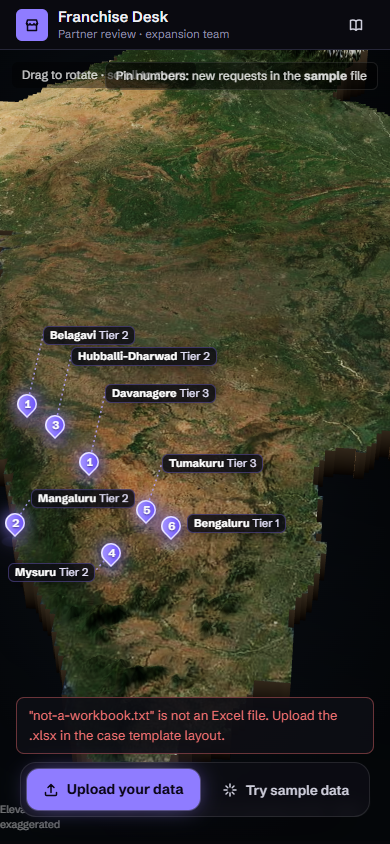
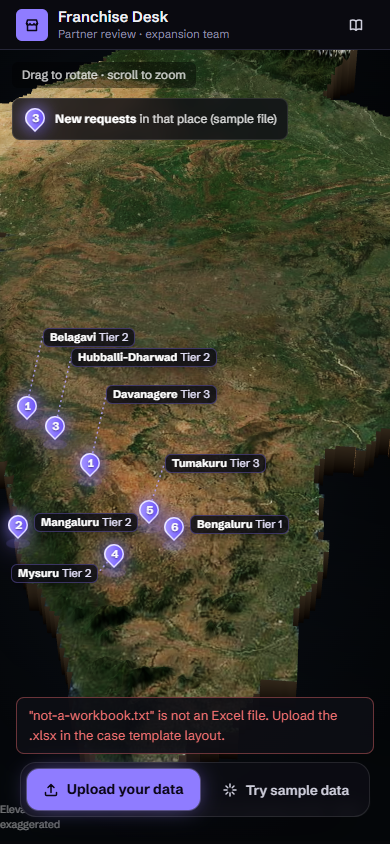
Map key: the number in a pin is its new requests; grey pins have no open territory

diff --git a/components/map/PinLegend.tsx b/components/map/PinLegend.tsx
@@ -1,0 +1,37 @@
+"use client";
+// Key for the overview pins: the number in a pin is its new requests; grey means no open territory there.
+import type { MapPoint } from "@/lib/map/terrain";
+
+function MiniPin({ label, muted }: { label: string; muted?: boolean }) {
+  return (
+    <span className={`dio-tag pointer-events-none${muted ? " is-orphan" : ""}`} style={{ position: "relative", animation: "none" }} aria-hidden>
+      <span className="dp-pin" style={{ height: 24 }}>
+        <span className="dp-head">
+          <span className="dp-num">{label}</span>
+        </span>
+      </span>
+    </span>
+  );
+}
+
+export function PinLegend({ points, sample }: { points: MapPoint[]; sample?: boolean }) {
+  const counted = points.some((p) => p.count !== undefined);
+  const muted = points.some((p) => p.muted);
+  if (!counted) return null;
+  return (
+    <div className="pointer-events-none absolute left-3 top-12 z-[3] flex flex-col gap-1 rounded-lg border border-white/10 bg-[#0d0d14cc] px-2.5 py-2 text-[12px] text-white/85 backdrop-blur" aria-label="Map key">
+      <div className="flex items-center gap-2">
+        <MiniPin label="3" />
+        <span>
+          <b className="text-white">New requests</b> in that place{sample ? " (sample file)" : ""}
+        </span>
+      </div>
+      {muted && (
+        <div className="flex items-center gap-2">
+          <MiniPin label="1" muted />
+          <span>Requests where no territory is open</span>
+        </div>
+      )}
+    </div>
+  );
+}

diff --git a/components/EmptyState.tsx b/components/EmptyState.tsx
@@ -4,6 +4,7 @@ import { useEffect, useMemo, useState } from "react";
 import dynamic from "next/dynamic";
 import { Icon } from "./icons";
 import { cityPoints } from "@/lib/map/terrain";
+import { PinLegend } from "./map/PinLegend";
 import { parseWorkbook } from "@/lib/parse/parse";
 import { readWorkbook } from "@/lib/parse/xlsx";
 import reference from "@/lib/engine/reference.json";
@@ -60,7 +61,7 @@ export function EmptyState({ onFile, onSample, error, loading }: { onFile: (f: F
       }}
     >
       {map3d && <Diorama points={points} activeKey={picked} onPick={(k) => setPicked((p) => (p === k ? null : k))} reducedMotion={reduced} onFail={() => setMap3d(false)} autoRotate hint="Drag to rotate · scroll to zoom" />}
-      {counts && <p className="pointer-events-none absolute right-3 top-3 z-[3] rounded-md border border-white/10 bg-black/50 px-2.5 py-1 text-[12px] text-white/85">Pin numbers: new requests in the <b>sample</b> file</p>}
+      <PinLegend points={points} sample />
       {!map3d && <FlatIndia points={points} activeKey={picked} onPick={(k) => setPicked((p) => (p === k ? null : k))} />}
       {over && <div className="pointer-events-none absolute inset-3 z-[4] grid place-items-center rounded-2xl border-2 border-dashed border-[#b4a6ff] bg-[#8f7cff14] text-[16px] font-semibold text-white">Drop the Excel file to open it</div>}
       <div className="absolute inset-x-0 bottom-6 z-[5] flex flex-col items-center gap-2 px-4">

diff --git a/components/Desk.tsx b/components/Desk.tsx
@@ -23,6 +23,7 @@ import { buildTerrainData, territoryPoints } from "@/lib/map/terrain";
 import { centroid } from "@/lib/engine/geo";
 import { RequestsPanel, LocationPanel, territoryRequests } from "./map/TerritoryPanels";
 import { territoryOverlay } from "@/lib/map/pinAreas";
+import { PinLegend } from "./map/PinLegend";
 import { selfTest } from "@/lib/engine/selftest";
 import { controlTower } from "@/lib/engine/tower";
 
@@ -497,6 +498,7 @@ function WorldMap({ result, selected, highlight, onSelect, activeTerritory, onPi
           {failed && <p className="absolute bottom-24 left-1/2 -translate-x-1/2 text-[12px] text-muted">Map unavailable ({failed}). Every decision is in the list.</p>}
         </>
       )}
+      {(flat || mode === "overview") && <PinLegend points={points} />}
       {requestDecision ? (
         <LocationPanel
           result={result}
